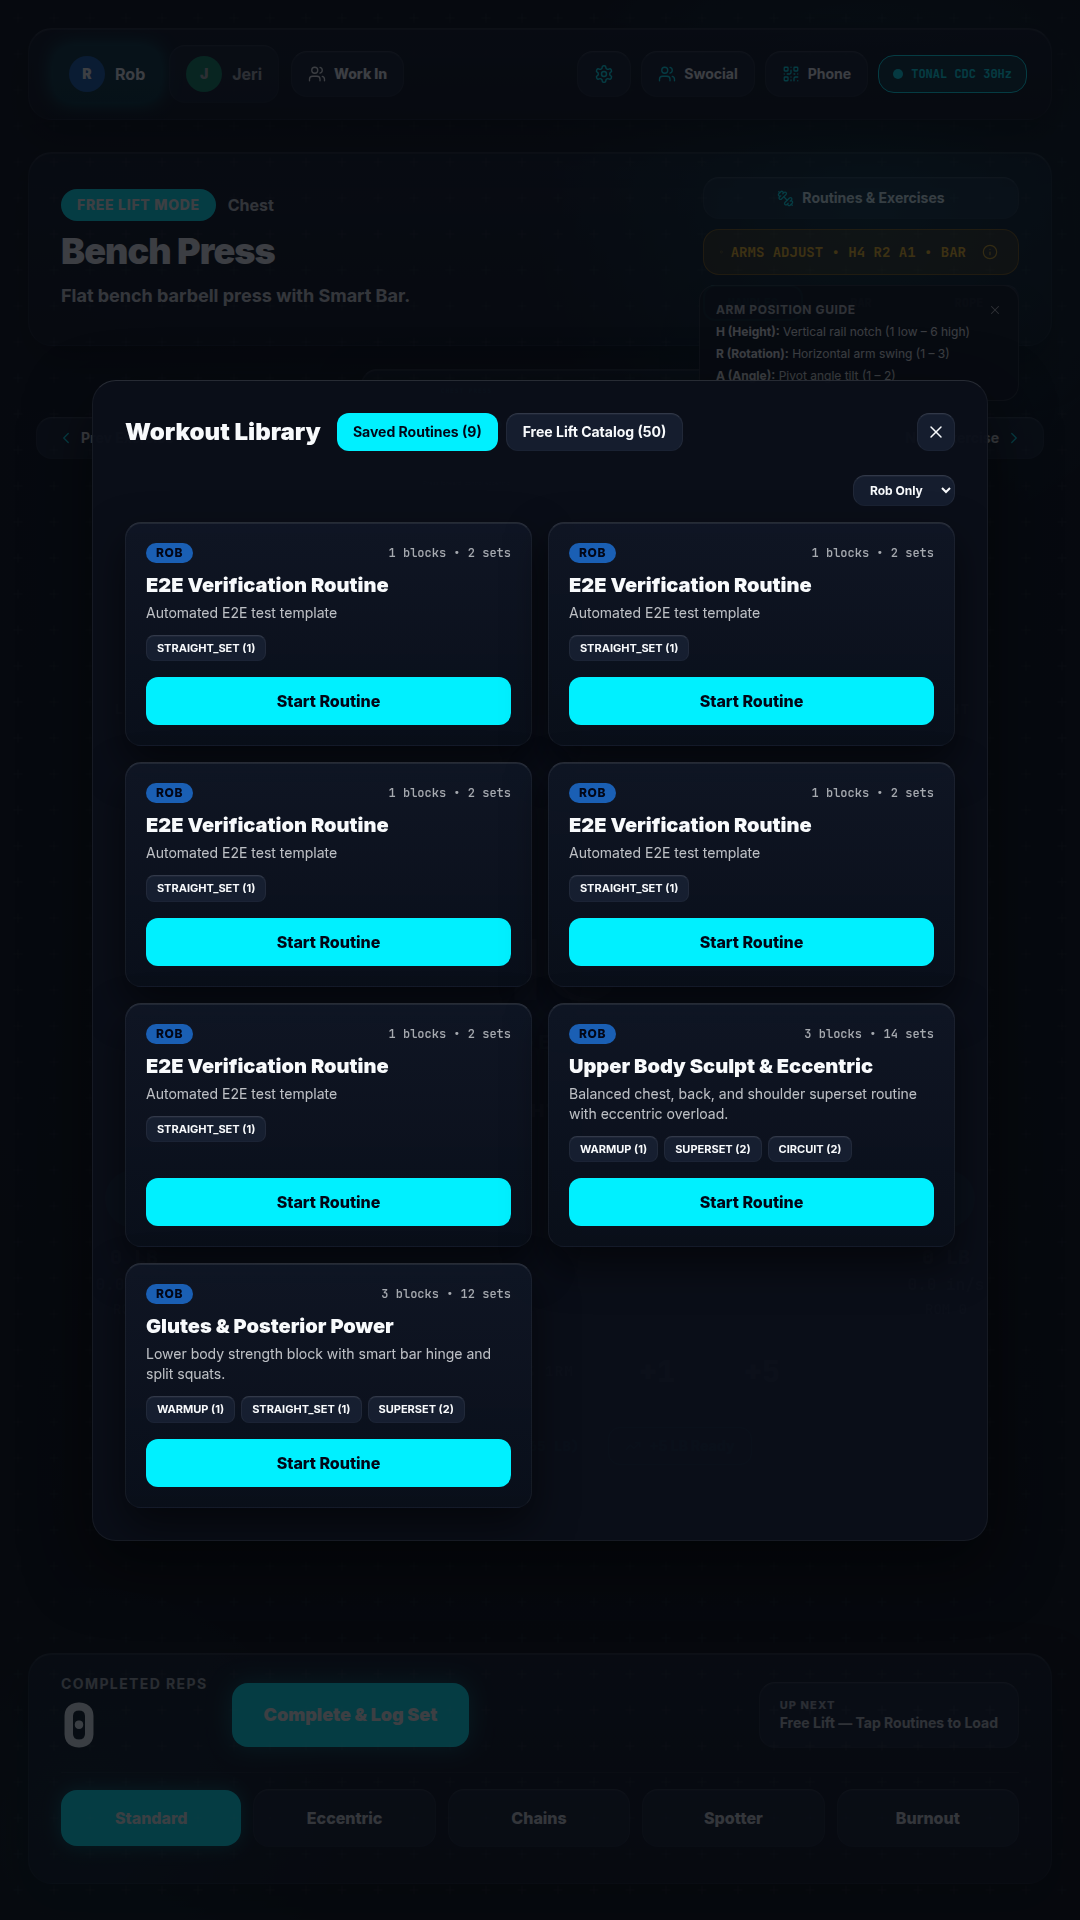
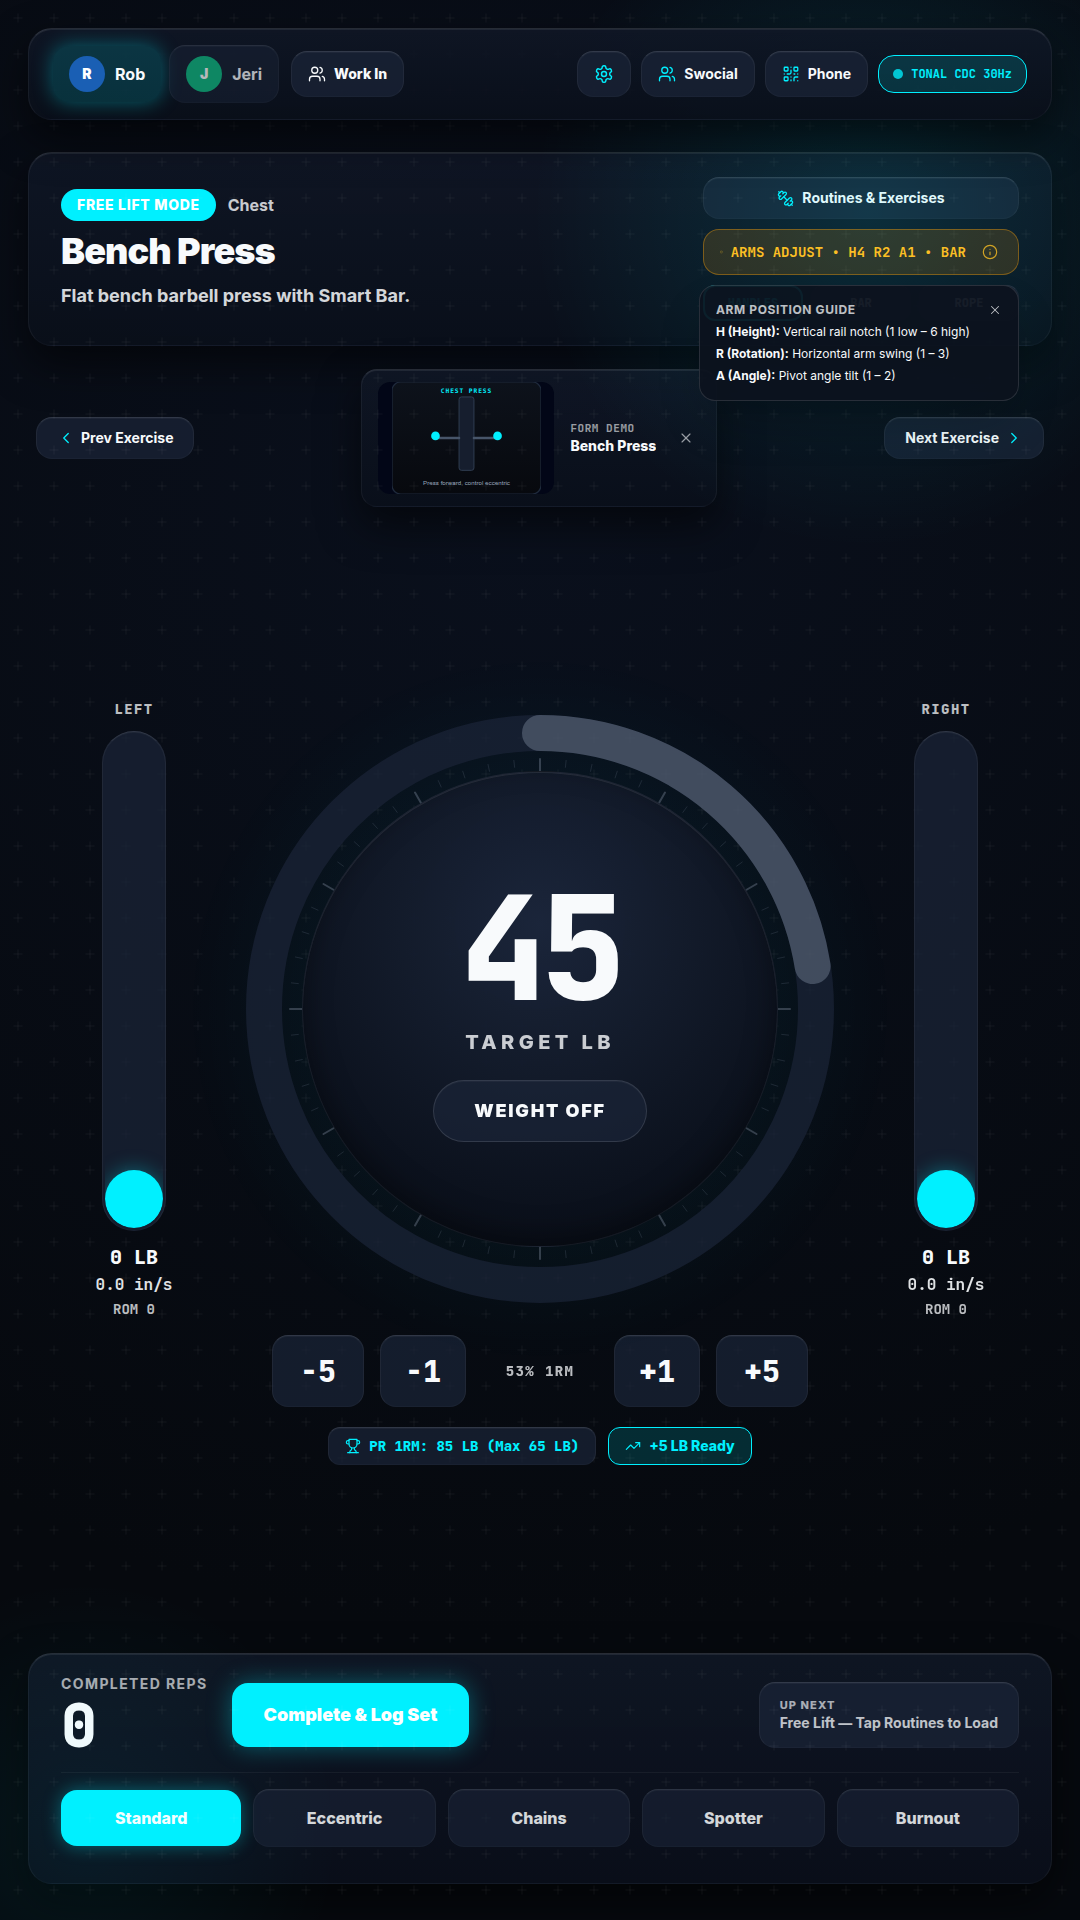
docs: streamline README technical details and refresh gallery screenshots

diff --git a/README.md b/README.md
@@ -32,7 +32,7 @@
 | **Arm Alignment & Sensor Sync** *(Neon Cyan)* | **Form Demo & Biomechanics** *(Hot Coral)* |
 |:---:|:---:|
 | <img src="docs/screenshots/kiosk_arm_guide.png" alt="Arm Alignment Guide" width="420" /> | <img src="docs/screenshots/kiosk_form_demo.png" alt="Form Demo Preview" width="420" /> |
-| *Live hardware readout of arm height, rotation, and angle sensors (`0x1020`/`0x1021`/`0x1025`) matching target exercise configuration.* | *Picture-in-Picture (PiP) animated SVG/video form loop demonstrating proper lifting technique and primary muscle activation.* |
+| *Live arm height, rotation, and angle position indicators matching the target exercise configuration.* | *Picture-in-Picture (PiP) animated form loop demonstrating proper lifting technique and primary muscle activation.* |
 
 | **AI Voice Coach & MCP Agent** *(Solar Amber)* | **Swocial Network & Feed** *(Emerald)* |
 |:---:|:---:|
@@ -154,14 +154,12 @@ The automated script [`scripts/install-device.sh`](scripts/install-device.sh) ha
 ```
 
 #### What the Automated Installer Configures:
-- **Native Kiosk App**: Deploys `com.swonal.kiosk` with automatic LAN IP host detection (or custom `--server-url`), offline user profile and exercise catalog caching, and auto-reconnecting background synchronization.
-- **Embedded Web View Engine**: Integrates GeckoView with in-process software WebRender tuned specifically for MediaTek MT8173 / Mali-T860 stability on Android 6.0 (API 23), enabling instant in-app Application Settings and Swocial feeds without web view crashes.
-- **Persistent Wireless ADB**: Configures `/data/adb/service.d/00-swonal-adbd.sh` to extract the Wi-Fi IP and keep port `5555` alive across all reboots.
-- **Hardware Serial Protection**: Restricts `/dev/ttyACM0` strictly to `0600 root:root` and stops stock Tonal MCB services from locking the motor controller.
-- **Magisk Root Pre-Grant**: Automatically pre-grants permanent superuser rights (`policy=2`, `notification=0`) to eliminate notification toasts.
-- **Hardware Motor Bridge**: Deploys `tonal-daemon` into Termux and sets up background auto-start services on device boot.
-- **Automated Storage Management**: Automatically purges temporary staging APKs (`/data/local/tmp`), prunes Termux package/pip caches, rotates log files (`<5MB`), and enforces a `--clean-disk` maintenance utility to prevent device storage exhaustion.
-- **Fast Incremental Sync (`--sync` / `--fast`)**: Uses `adb push --sync` to push only modified source files in seconds and compares `pyproject.toml` SHA256 hashes to skip redundant dependency installs:
+- **Native Fullscreen Kiosk**: Deploys the Swonal Kiosk app with automatic server discovery, offline user and workout caching, and seamless background reconnection.
+- **Embedded Browser Engine**: Prepares the display runtime for high-performance rendering, ensuring smooth UI navigation and settings access without crashes.
+- **Hardware Motor Bridge**: Configures the high-speed background service that controls motor resistance and streams real-time cable telemetry.
+- **Persistent Wireless ADB**: Keeps wireless access active across reboots so you can manage and update your Tonal without cables.
+- **Automatic Storage Maintenance**: Cleans temporary installation files, caches, and logs automatically so your Tonal never runs low on disk space.
+- **Fast Incremental Updates (`--sync`)**: Pushes only changed files in seconds when deploying updates:
   ```bash
   ./scripts/install-device.sh --target <TONAL_IP>:5555 --sync
   ```
@@ -172,15 +170,14 @@ The automated script [`scripts/install-device.sh`](scripts/install-device.sh) ha
 
 Once installed, Swonal Kiosk automatically boots on the Tonal wall display:
 
-- **Switching to Stock Tonal & Back**: Tap the quick-action menu at the top right of the screen and choose **"Exit to Stock Tonal"**. The daemon releases `/dev/ttyACM0` and launches stock software with a discreet floating overlay pill. Tapping the pill returns instantly to Swonal Kiosk without rebooting.
-- **Swocial Mobile Remote & Feed**: Open `http://<SERVER_IP>:3000/companion` on your smartphone (or scan the on-screen QR code) to queue exercises, adjust weight, view your Swocial workout feed, react with motivation (`💪`, `🔥`, `🏆`), or import shared routines with one tap.
-- **Local Fail-Safe Protection**: If Wi-Fi ever drops mid-set, tapping **WEIGHT OFF** bypasses the network entirely via local loopback socket (`127.0.0.1:8765`), dropping cable tension in `<5ms`.
-- **Screen Mirroring & Remote Inspection**: Mirror and control the Tonal screen directly from your workstation with one command:
+- **Switching Between Swonal & Stock Tonal**: Tap the menu at the top right of the screen and choose **"Exit to Stock Tonal"**. A floating button allows you to return to Swonal at any time without rebooting.
+- **Phone Companion & Swocial**: Open `http://<SERVER_IP>:3000/companion` on your smartphone (or scan the on-screen QR code) to queue exercises, adjust weight, view friends' workouts, and share routines.
+- **Hardware Safety**: If the network connection is ever interrupted during a set, pressing the on-screen **WEIGHT OFF** button immediately cuts cable tension locally.
+- **Remote Screen View**: View and control the Tonal display remotely from your computer using:
   ```bash
   ./scripts/scrcpy.sh
   ```
-  *(Or: `scrcpy -s <TONAL_IP>:5555 --no-audio --max-fps 30 -m 1080`)*
-- **Dedicated Application Settings**: Navigate to `/settings` or tap the gear icon to manage household lifters and per-user saved workout programs (queue routines to Tonal, share to Swocial, view exercise details), peer-to-peer Swocial profiles, AI configuration (BYOK Voice Coach and Model Context Protocol / MCP server setup), Network overrides, and Security/Data backups.
+- **Application Settings**: Tap the gear icon to manage lifters and their saved workout programs, customize AI voice coach settings (BYOK & MCP server), and configure network preferences.
 
 ---
 
